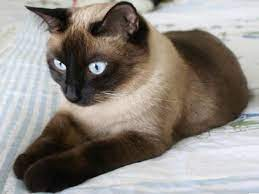
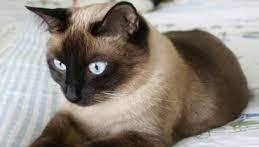
style

diff --git a/JavaScript/script.js b/JavaScript/script.js
@@ -27,7 +27,7 @@ var Animal = /** @class */ (function () {
         animalShop.push(this);
     }
     Animal.prototype.startDisplay = function () {
-        return "<div class=\"col mx-0\">\n                    <div class=\"card shadow-lg mb-1\" id=\"testtest\" style=\"width: 18rem;\">\n                        <img src=\"".concat(this.img, "\" class=\"card-img-top\" alt=\"...\">\n                    <div class=\"card-body p-0\">\n                        <h5 class=\"card-title text-center bg-dark text-light p-1\">").concat(this.name, "</h5>\n                        <p class=\"card-text\">Gender: ").concat(this.gender, "</p>\n                        <p class=\"card-text\">Age: ").concat(this.age, "</p>\n                        <p class=\"card-text\">Size: ").concat(this.size, "</p>\n                        <p class=\"card-text text-center btn d-flex justify-content-center bg-").concat(this.vaccine ? "success" : "danger", "\">Vaccine ").concat(this.vaccine, "</p>");
+        return "<div class=\"col mx-0 mt-3\">\n                    <div class=\"card shadow-lg mb-1\" id=\"testtest\"\">\n                        <img src=\"".concat(this.img, "\" class=\"card-img-top\" alt=\"...\">\n                    <div class=\"card-body p-0\">\n                        <h5 class=\"card-title text-center bg-dark text-light p-1\">").concat(this.name, "</h5>\n                        <p class=\"card-text ps-2\">Gender: ").concat(this.gender, "</p>\n                        <p class=\"card-text ps-2\">Age: ").concat(this.age, "</p>\n                        <p class=\"card-text ps-2\">Size: ").concat(this.size, "</p>\n                        <p class=\"card-text text-center mb-2 text-light btn rounded-pill d-flex justify-content-center bg-").concat(this.vaccine ? "success" : "danger", "\">Vaccine ").concat(this.vaccine, "</p>");
     };
     Animal.prototype.endDisplay = function () {
         return "</div>\n                </div>\n                </div>";
@@ -53,13 +53,13 @@ var Cat = /** @class */ (function (_super) {
         return _this;
     }
     Cat.prototype.startDisplay = function () {
-        return "".concat(_super.prototype.startDisplay.call(this), "\n        <hr>\n        <div class=\"card-text\">\n            <p>Breed: ").concat(this.breed, " <br> Fur color: ").concat(this.furColor, " <br></p>\n            <a href=\"").concat(this.URLbreed, "\" class=\"catlink\">More info about the breed</a>\n        </div>");
+        return "".concat(_super.prototype.startDisplay.call(this), "\n                <div class=\"card-text ps-2\">\n            <p>Breed: ").concat(this.breed, " <br> Fur color: ").concat(this.furColor, " <br></p>\n            <a href=\"").concat(this.URLbreed, "\" class=\"infoLink\">More info about the breed</a>\n        </div>");
     };
     return Cat;
 }(Animal));
 new Cat("Matta", 2, "Male", "medium", "Images/rusianjpg.jpg", true, "Russian Blue", "Grey", "https://en.wikipedia.org/wiki/Russian_Blue");
-new Cat("Lilly", 7, "Female", "medium", "Images/mediumcat.jpg", false, "Siamese", "Beige-grey", "https://en.wikipedia.org/wiki/Siamese_cat");
-new Cat("Leo", 3, "Male", "medium", "Images/sphynx.jpg", true, "Sphynx", "White", "https://en.wikipedia.org/wiki/Sphynx_cat");
+new Cat("Lilly", 7, "Female", "medium", "Images/siamese.jpg", false, "Siamese", "Beige-grey", "https://en.wikipedia.org/wiki/Siamese_cat");
+new Cat("Leo", 3, "Male", "medium", "Images/sphynx0.jpg", true, "Sphynx", "White", "https://en.wikipedia.org/wiki/Sphynx_cat");
 //child class Dog
 var Dog = /** @class */ (function (_super) {
     __extends(Dog, _super);
@@ -70,10 +70,16 @@ var Dog = /** @class */ (function (_super) {
         return _this;
     }
     Dog.prototype.startDisplay = function () {
-        return "".concat(_super.prototype.startDisplay.call(this), "\n              <p class=\"card-text\">Breed: ").concat(this.dogBreed, "</p>\n              <p class=\"card-text\">Training: ").concat(this.training, "</p>\n            </div>\n            </div>\n            </div>");
+        return "".concat(_super.prototype.startDisplay.call(this), "\n              <p class=\"card-text ps-2\">Breed: ").concat(this.dogBreed, "</p>\n              <p class=\"card-text ps-2\">Training: ").concat(this.training, "</p>\n            </div>\n            </div>\n            </div>");
     };
     return Dog;
 }(Animal));
 new Dog("Rocky", 32, "Male", "big", "Images/samoyed.jpg", true, "Samoyed", "Yes");
 new Dog("Dobby", 5, "Female", "big", "Images/Labrador.jpg", false, "Labrador", "No");
 new Dog("Wuk", 3, "Male", "big", "Images/husky.jpg", true, "Husky", "Yes");
+function allCard() {
+    animalShop.forEach(function (value) {
+        document.getElementById("row").innerHTML += value.display();
+    });
+}
+allCard();

diff --git a/codereview5.html b/codereview5.html
@@ -9,6 +9,7 @@
     <link href="https://cdn.jsdelivr.net/npm/bootstrap@5.2.0-beta1/dist/css/bootstrap.min.css" rel="stylesheet" integrity="sha384-0evHe/X+R7YkIZDRvuzKMRqM+OrBnVFBL6DOitfPri4tjfHxaWutUpFmBp4vmVor" crossorigin="anonymous">
     <!-- my style -->
     <link rel="stylesheet" href="Style/style.css">
+    <link href="https://fonts.googleapis.com/css2?family=Great+Vibes&display=swap" rel="stylesheet">
     <!-- Font Awesome -->
     <script src="https://kit.fontawesome.com/011e5dd5a4.js" crossorigin="anonymous"></script>
     <!-- Page Icon -->
@@ -29,7 +30,7 @@
                 <img src="Images/logo.jpg" alt="logo" id="logo">
             </a>
             <a class="navbar-brand" href="codereview5.html">
-                <h4 class="text-uppercase font-weight-bold">Pet shop</h4>
+                <h4 class="text-uppercase textBlue font-weight-bold">Pet shop</h4>
             </a>
             <button class="navbar-toggler" type="button" data-bs-toggle="collapse" data-bs-target="codereview5.htmlnavbarSupportedContent" aria-controls="navbarSupportedContent" aria-expanded="false" aria-label="Toggle navigation">
             <span class="navbar-toggler-icon"></span>
@@ -37,25 +38,25 @@
             <div class="collapse navbar-collapse" id="navbarSupportedContent">
                 <ul class="navbar-nav me-auto mb-2 mb-lg-0">
                     <li class="nav-item">
-                        <a class="nav-link active" aria-current="page" href="codereview5.html">Home</a>
+                        <a class="nav-link textBlue" aria-current="page" href="codereview5.html">Home</a>
                     </li>
                     <li class="nav-item">
-                        <a class="nav-link" href="codereview5.html">About us</a>
+                        <a class="nav-link textBlue" href="codereview5.html">About us</a>
                     </li>
                     <li class="nav-item">
-                        <a class="nav-link" href="codereview5.html">Contact</a>
+                        <a class="nav-link textBlue" href="codereview5.html">Contact</a>
                     </li>
                     <li class="nav-item">
-                        <a id="sortanim" class="nav-link" href="#">Sort by age <i class="fa-solid fa-arrow-down-short-wide"></i></a>
+                        <a id="sortanim" class="nav-link textBlue" href="#">Sort by age <i class="fa-solid fa-arrow-down-short-wide"></i></a>
                     </li>
                     <li class="nav-item">
-                        <a id="sortanimals" class="nav-link" href="#">Sort by age <i class="fa-solid fa-arrow-down-wide-short"></i></a>
+                        <a id="sortanimals" class="nav-link textBlue" href="#">Sort by age <i class="fa-solid fa-arrow-down-wide-short"></i></a>
                     </li>
 
                 </ul>
                 <form class="d-flex">
                     <input class="form-control me-2" type="search" placeholder="Search for a pet" aria-label="Search">
-                    <button class="btn btn-outline-success" type="submit">Search</button>
+                    <button class="btn btn-outline-success bgBlue" type="submit">Search</button>
                 </form>
             </div>
         </div>
@@ -68,7 +69,12 @@
         </h1> -->
     </section>
     <!-- hero image ending  -->
-    <h5 class="text-center">Get to know our friends</h5>
+    <main>
+        <div class="container w-75 justify-content-around">
+            <h2 class="text-center fontChange p-2">Get to know our friends</h2>
+            <div class="row row-cols-lg-3 row-cols-md-2 row-cols-sm-5" id="row"></div>
+        </div>
+    </main>
     <div id="info"></div>
     <footer class="bg-light text-center text-dark">
         <!-- Grid container -->

diff --git a/JavaScript/script.ts b/JavaScript/script.ts
@@ -20,15 +20,15 @@ class Animal {  //1
         animalShop.push(this);
     }
     startDisplay() {
-        return `<div class="col mx-0">
-                    <div class="card shadow-lg mb-1" id="testtest" style="width: 18rem;">
+        return `<div class="col mx-0 mt-3">
+                    <div class="card shadow-lg mb-1" id="testtest"">
                         <img src="${this.img}" class="card-img-top" alt="...">
                     <div class="card-body p-0">
                         <h5 class="card-title text-center bg-dark text-light p-1">${this.name}</h5>
-                        <p class="card-text">Gender: ${this.gender}</p>
-                        <p class="card-text">Age: ${this.age}</p>
-                        <p class="card-text">Size: ${this.size}</p>
-                        <p class="card-text text-center btn d-flex justify-content-center bg-${this.vaccine?"success":"danger"}">Vaccine ${this.vaccine}</p>`
+                        <p class="card-text ps-2">Gender: ${this.gender}</p>
+                        <p class="card-text ps-2">Age: ${this.age}</p>
+                        <p class="card-text ps-2">Size: ${this.size}</p>
+                        <p class="card-text text-center mb-2 text-light btn rounded-pill d-flex justify-content-center bg-${this.vaccine?"success":"danger"}">Vaccine ${this.vaccine}</p>`
     }
     endDisplay(){
         return `</div>
@@ -59,17 +59,16 @@ class Cat extends Animal {  //2
     }
     startDisplay() {
         return `${super.startDisplay()}
-        <hr>
-        <div class="card-text">
+                <div class="card-text ps-2">
             <p>Breed: ${this.breed} <br> Fur color: ${this.furColor} <br></p>
-            <a href="${this.URLbreed}" class="catlink">More info about the breed</a>
+            <a href="${this.URLbreed}" class="infoLink">More info about the breed</a>
         </div>`;
     }   
 }
 
 new Cat ("Matta", 2, "Male", "medium",  "Images/rusianjpg.jpg", true, "Russian Blue", "Grey", "https://en.wikipedia.org/wiki/Russian_Blue");
-new Cat ("Lilly", 7, "Female", "medium", "Images/mediumcat.jpg", false, "Siamese", "Beige-grey", "https://en.wikipedia.org/wiki/Siamese_cat");
-new Cat ("Leo", 3, "Male", "medium", "Images/sphynx.jpg", true, "Sphynx", "White", "https://en.wikipedia.org/wiki/Sphynx_cat");
+new Cat ("Lilly", 7, "Female", "medium", "Images/siamese.jpg", false, "Siamese", "Beige-grey", "https://en.wikipedia.org/wiki/Siamese_cat");
+new Cat ("Leo", 3, "Male", "medium", "Images/sphynx0.jpg", true, "Sphynx", "White", "https://en.wikipedia.org/wiki/Sphynx_cat");
 
 //child class Dog
 class Dog extends Animal {
@@ -84,8 +83,8 @@ class Dog extends Animal {
 
     startDisplay() {
         return `${super.startDisplay()}
-              <p class="card-text">Breed: ${this.dogBreed}</p>
-              <p class="card-text">Training: ${this.training}</p>
+              <p class="card-text ps-2">Breed: ${this.dogBreed}</p>
+              <p class="card-text ps-2">Training: ${this.training}</p>
             </div>
             </div>
             </div>`
@@ -95,3 +94,10 @@ class Dog extends Animal {
 new Dog ("Rocky", 32, "Male", "big", "Images/samoyed.jpg", true, "Samoyed", "Yes");
 new Dog ("Dobby", 5, "Female", "big", "Images/Labrador.jpg", false, "Labrador", "No");
 new Dog ("Wuk", 3, "Male", "big", "Images/husky.jpg", true, "Husky", "Yes");
+
+function allCard(){
+    animalShop.forEach((value) => {
+        (document.getElementById("row") as HTMLElement).innerHTML += value.display();
+    });
+}
+allCard();

diff --git a/Style/style.css b/Style/style.css
@@ -1,3 +1,8 @@
+body {
+    font-family: 'Kalam', cursive, bold;
+    font-style: oblique;
+}
+
 #logo {
     height: 30%;
     width: 30%;
@@ -32,5 +37,18 @@
 }
 
 #footdarkblue {
+    background-color: #4B95BA;
+}
+
+.infoLink {
+    text-decoration: none;
+    color: #4B95BA;
+}
+
+.textBlue {
+    color: #4B95BA;
+}
+
+.bgBlue {
     background-color: #4B95BA;
 }
